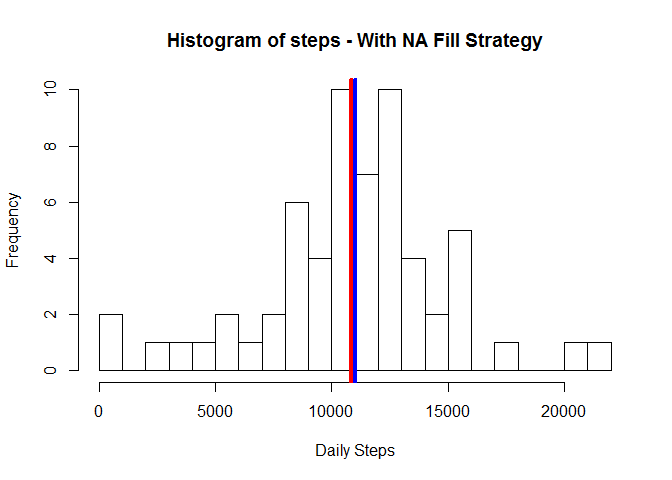
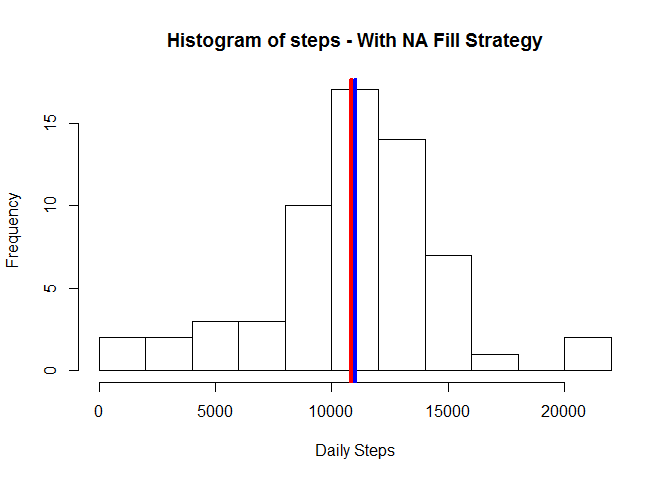
Project01 Final

diff --git a/PA1_template.html b/PA1_template.html
@@ -151,7 +151,7 @@ dataset &lt;- raw_dataset[selection_rows,TRUE]</code></pre>
 <pre class="r"><code># The aggregate function was used to sum steps of the same day
 dataset_aggregate &lt;- aggregate(steps ~ date, data = dataset, FUN = sum)
 
-# The first 5 lines of the aggregate dataset
+# The first 5 lines of the aggregate dataset (total number of steps taken per day)
 head(dataset_aggregate,5)</code></pre>
 <pre><code>##         date steps
 ## 1 2012-10-02   126
@@ -287,42 +287,32 @@ dataset_aggregate_NA_replace &lt;- aggregate(steps ~ date, data = raw_dataset_NA
 
 # Plot the histogram with NA values replaced regarding the strategy
 hist(dataset_aggregate_NA_replace$steps, main = &quot;Histogram of steps - With NA Fill Strategy&quot;,
-     xlab = 'Daily Steps', ylab = 'Frequency',breaks = 20)
+     xlab = 'Daily Steps', ylab = 'Frequency',breaks = 10)
 
 # Red Vertical line to show the step average with NA values replaced regarding the strategy
 abline(v = mean(dataset_aggregate_NA_replace$steps),col=&quot;red&quot;,lwd=4)
 
 # Blue Vertical line to show the step median with NA values replaced regarding the strategy
 abline(v = median(dataset_aggregate_NA_replace$steps),col=&quot;blue&quot;,lwd=4)</code></pre>
[1 lines of base64/hex data omitted]
-<pre class="r"><code># Plot the histogram without NA values
-hist(dataset_aggregate$steps, main = &quot;Histogram of steps - Without NA Values&quot;,
-     xlab = 'Daily Steps', ylab = 'Frequency',breaks = 20)
-
-# Red Vertical line to show the step average without NA values
-abline(v = mean(dataset_aggregate$steps),col=&quot;red&quot;,lwd=2)
-
-# Blue Vertical line to show the step average without NA values
-abline(v = median(dataset_aggregate$steps),col=&quot;blue&quot;,lwd=2)</code></pre>
[1 lines of base64/hex data omitted]
-<p>The <code>summary</code> show the mean and median of <code>steps</code> after replace all <code>NA</code> values by the strategy adopt.</p>
[1 lines of base64/hex data omitted]
+<p>The <code>summary</code> show the mean and median of <code>steps</code> after fill all <code>NA</code> values by the strategy adopt.</p>
 <pre class="r"><code>summary(dataset_aggregate_NA_replace$steps)</code></pre>
 <pre><code>##    Min. 1st Qu.  Median    Mean 3rd Qu.    Max. 
 ##      41    8918   11020   10820   12810   21190</code></pre>
-<p>Comparison before and after replace <code>NA</code> values.</p>
+<p>Comparison before and after fill <code>NA</code> values.</p>
 <pre class="r"><code># Comparison Table
 rbind('Weekday Strategy' = summary(dataset_aggregate_NA_replace$steps),
       'Without NA' = summary(dataset_aggregate$steps))[,3:4]</code></pre>
 <pre><code>##                  Median  Mean
 ## Weekday Strategy  11020 10820
 ## Without NA        10760 10770</code></pre>
-<p>The median and mean seems to be are much closer with the strategy adopt to fill <code>NA</code> values. This table confirms the slight variation observed in the last two histogram.</p>
+<p>The strategy adopted to fill <code>NA</code> values makes the median and mean became farthest, as shown in the table above.</p>
 </div>
 <div id="are-there-differences-in-activity-patterns-between-weekdays-and-weekends" class="section level2">
 <h2>Are there differences in activity patterns between weekdays and weekends?</h2>
-<p>Creating a new factor to the raw dataset.</p>
-<pre class="r"><code># Creating a tbl_df()
-raw_dataset_new_factor &lt;- tbl_df(raw_dataset)
+<p>Adopting the same srategy to fill NA values.</p>
+<pre class="r"><code># Removing the additional column created to specify the day of the week in the later question.
+raw_dataset_new_factor &lt;- select(raw_dataset_NA_replace,-weekday)
 
 # Mutate the table base on weekday and weekend using the ifelse() function
 raw_dataset_new_factor &lt;- mutate(raw_dataset_new_factor,
@@ -330,29 +320,18 @@ raw_dataset_new_factor &lt;- mutate(raw_dataset_new_factor,
                                                     yes = 'weekend', 
                                                     no = 'weekday'))</code></pre>
 <p>Make a panel plot containing a time series plot (i.e. <code>type = &quot;l&quot;</code>) of the 5-minute interval (x-axis) and the average number of steps taken, averaged across all weekday days or weekend days (y-axis). See the README file in the GitHub repository to see an example of what this plot should look like using simulated data.</p>
-<pre class="r"><code>dataset_weekday &lt;- filter(raw_dataset_new_factor,New_factor == &quot;weekday&quot;)
-
-dataset_weekday_aggregate &lt;- aggregate(steps ~ interval, data = dataset_weekday, FUN = mean)
-
-dataset_weekend &lt;- filter(raw_dataset_new_factor,New_factor == &quot;weekend&quot;)
-
-dataset_weekend_aggregate &lt;- aggregate(steps ~ interval, data = dataset_weekend, FUN = mean)
+<pre class="r"><code>raw_dataset_new_factor_aggregate &lt;- aggregate(steps ~ interval + New_factor, data = raw_dataset_new_factor, FUN = mean)
 
 
 # Line graphic to show the time serie of average step by interval and the red vertical line to mark the maximum average step
-g1 &lt;- ggplot(dataset_weekday_aggregate,aes(interval,steps))+
-        ggtitle(&quot;Time Series of weekday Average Steps by Interval&quot;) +
-        geom_line()
-
-# Line graphic to show the time serie of average step by interval and the red vertical line to mark the maximum average step
-g2 &lt;- ggplot(dataset_weekend_aggregate,aes(interval,steps))+
-        ggtitle(&quot;Time Series of weekend Average Steps by Interval&quot;) +
-        geom_line()
+g1 &lt;- ggplot(raw_dataset_new_factor_aggregate,aes(interval,steps))+
+        ggtitle(&quot;Time Series Painel of Average Steps by Interval and Weekdays&quot;) +
+        geom_line()+
+        facet_grid(New_factor ~ .)
 
 print(g1)</code></pre>
[1 lines of base64/hex data omitted]
-<pre class="r"><code>print(g2)</code></pre>
[2 lines of base64/hex data omitted]
+<p>The people seem to be more active on weekends and we cannot infer any standard activities behavior because all activities was spread on the day. Furthermore, the people seem to be more activities before the work on the weekdays.</p>
 </div>
 
 

diff --git a/PA1_template.md b/PA1_template.md
@@ -141,7 +141,7 @@ head(dataset,5)
 # The aggregate function was used to sum steps of the same day
 dataset_aggregate <- aggregate(steps ~ date, data = dataset, FUN = sum)
 
-# The first 5 lines of the aggregate dataset
+# The first 5 lines of the aggregate dataset (total number of steps taken per day)
 head(dataset_aggregate,5)
 ```
 
@@ -341,7 +341,7 @@ dataset_aggregate_NA_replace <- aggregate(steps ~ date, data = raw_dataset_NA_re
 
 # Plot the histogram with NA values replaced regarding the strategy
 hist(dataset_aggregate_NA_replace$steps, main = "Histogram of steps - With NA Fill Strategy",
-     xlab = 'Daily Steps', ylab = 'Frequency',breaks = 20)
+     xlab = 'Daily Steps', ylab = 'Frequency',breaks = 10)
 
 # Red Vertical line to show the step average with NA values replaced regarding the strategy
 abline(v = mean(dataset_aggregate_NA_replace$steps),col="red",lwd=4)
@@ -352,21 +352,7 @@ abline(v = median(dataset_aggregate_NA_replace$steps),col="blue",lwd=4)
 
 ![](PA1_template_files/figure-html/hist_replace_steps_NA-1.png) 
 
-```r
-# Plot the histogram without NA values
-hist(dataset_aggregate$steps, main = "Histogram of steps - Without NA Values",
-     xlab = 'Daily Steps', ylab = 'Frequency',breaks = 20)
-
-# Red Vertical line to show the step average without NA values
-abline(v = mean(dataset_aggregate$steps),col="red",lwd=2)
-
-# Blue Vertical line to show the step average without NA values
-abline(v = median(dataset_aggregate$steps),col="blue",lwd=2)
-```
-
-![](PA1_template_files/figure-html/hist_replace_steps_NA-2.png) 
-
-The `summary` show the mean and median of `steps` after replace all `NA` values by the strategy adopt.
+The `summary` show the mean and median of `steps` after fill all `NA` values by the strategy adopt.
 
 ```r
 summary(dataset_aggregate_NA_replace$steps)
@@ -377,7 +363,7 @@ summary(dataset_aggregate_NA_replace$steps)
 ##      41    8918   11020   10820   12810   21190
 ```
 
-Comparison before and after replace `NA` values.
+Comparison before and after fill `NA` values.
 
 ```r
 # Comparison Table
@@ -391,15 +377,15 @@ rbind('Weekday Strategy' = summary(dataset_aggregate_NA_replace$steps),
 ## Without NA        10760 10770
 ```
 
-The median and mean seems to be are much closer with the strategy adopt to fill `NA` values. This table confirms the slight variation observed in the last two histogram.
+The strategy adopted to fill `NA` values makes the median and mean became farthest, as shown in the table above.
 
 ## Are there differences in activity patterns between weekdays and weekends?
 
-Creating a new factor to the raw dataset.
+Adopting the same srategy to fill NA values.
 
 ```r
-# Creating a tbl_df()
-raw_dataset_new_factor <- tbl_df(raw_dataset)
+# Removing the additional column created to specify the day of the week in the later question.
+raw_dataset_new_factor <- select(raw_dataset_NA_replace,-weekday)
 
 # Mutate the table base on weekday and weekend using the ifelse() function
 raw_dataset_new_factor <- mutate(raw_dataset_new_factor,
@@ -412,38 +398,18 @@ Make a panel plot containing a time series plot (i.e. `type = "l"`) of the 5-min
 
 
 ```r
-dataset_weekday <- filter(raw_dataset_new_factor,New_factor == "weekday")
-
-dataset_weekday_aggregate <- aggregate(steps ~ interval, data = dataset_weekday, FUN = mean)
-
-dataset_weekend <- filter(raw_dataset_new_factor,New_factor == "weekend")
-
-dataset_weekend_aggregate <- aggregate(steps ~ interval, data = dataset_weekend, FUN = mean)
+raw_dataset_new_factor_aggregate <- aggregate(steps ~ interval + New_factor, data = raw_dataset_new_factor, FUN = mean)
 
 
 # Line graphic to show the time serie of average step by interval and the red vertical line to mark the maximum average step
-g1 <- ggplot(dataset_weekday_aggregate,aes(interval,steps))+
-        ggtitle("Time Series of weekday Average Steps by Interval") +
-        geom_line()
-
-# Line graphic to show the time serie of average step by interval and the red vertical line to mark the maximum average step
-g2 <- ggplot(dataset_weekend_aggregate,aes(interval,steps))+
-        ggtitle("Time Series of weekend Average Steps by Interval") +
-        geom_line()
+g1 <- ggplot(raw_dataset_new_factor_aggregate,aes(interval,steps))+
+        ggtitle("Time Series Painel of Average Steps by Interval and Weekdays") +
+        geom_line()+
+        facet_grid(New_factor ~ .)
 
 print(g1)
 ```
 
 ![](PA1_template_files/figure-html/weekday_weekend-1.png) 
 
-```r
-print(g2)
-```
-
-![](PA1_template_files/figure-html/weekday_weekend-2.png) 
-
-
-
-
-
-
+The people seem to be more active on weekends and we cannot infer any standard activities behavior because all activities was spread on the day. Furthermore, the people seem to be more activities before the work on the weekdays.
